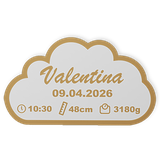
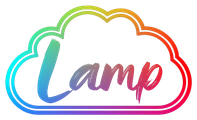
Release cloud-lamp v2.1.9
Use the rainbow cloud wordmark as the README hero, web-app header brand,
and PWA / home-screen icon (transparent trial — iOS may fill alpha black).

diff --git a/web/app.html b/web/app.html
@@ -84,9 +84,10 @@
 
     header{display:flex;align-items:center;justify-content:space-between;gap:10px;margin-bottom:14px}
     .brand{display:flex;align-items:center;gap:10px;min-width:0}
+    /* Wordmark logo (cloud + "Lamp") — landscape slot, transparent PNG. */
     .brand .cloud{
       position:relative;overflow:visible;
-      width:48px;height:48px;border-radius:0;flex:0 0 auto;
+      width:112px;height:56px;border-radius:0;flex:0 0 auto;
       display:flex;align-items:center;justify-content:center;
       background:transparent;border:none;
     }
@@ -94,6 +95,7 @@
     .brand .cloud img{
       position:absolute;inset:0;width:100%;height:100%;object-fit:contain;
     }
+    .brand .cloud:has(img) svg{display:none}
     .brand h1{margin:0;font-size:18px;letter-spacing:.2px;white-space:nowrap;overflow:hidden;text-overflow:ellipsis}
     .brand .sub{font-size:11px;color:var(--muted);margin-top:1px}
     .hdr-right{display:flex;align-items:center;gap:8px;flex:0 0 auto}

diff --git a/tools/mock-device.py b/tools/mock-device.py
@@ -56,13 +56,13 @@ def light_json(detail_all=False):
 
 def update_json():
     # Match ESPHome web_server shape: latest version is in `value`.
-    latest = "2.1.8"
+    latest = "2.1.9"
     installing = state["fw_installing"]
     return {
         "id": "update-firmware",
         "value": latest,
         "state": "INSTALLING" if installing else "NO UPDATE",
-        "current_version": "2.1.8",
+        "current_version": "2.1.9",
         "title": "Cloud Lamp (cloud-lamp)",
         "summary": f"Cloud-Lamp firmware {latest}",
         "has_progress": installing,
@@ -110,7 +110,7 @@ class Handler(http.server.BaseHTTPRequestHandler):
             self._send(200, json.dumps({
                 "name": "cloud-lamp-dd3f2a", "friendly_name": "Cloud-Lamp-dd3f2a",
                 "hostname": "cloud-lamp-dd3f2a", "serial": "DD3F2A",
-                "mac": "AA:BB:CC:DD:3F:2A", "version": "2.1.8",
+                "mac": "AA:BB:CC:DD:3F:2A", "version": "2.1.9",
             }).encode())
         elif path == "/manifest.json":
             self._send(200, json.dumps({"name": "Cloud-Lamp", "display": "standalone"}).encode())

diff --git a/components/cloud_lamp_web/cloud_lamp_web.cpp b/components/cloud_lamp_web/cloud_lamp_web.cpp
@@ -107,7 +107,7 @@ void CloudLampWeb::handle_manifest_(AsyncWebServerRequest *request) {
                          "\"display_override\":[\"standalone\",\"fullscreen\"],"
                          "\"background_color\":\"#0b0f18\",\"theme_color\":\"#0b0f18\"";
   if (this->icon_ != nullptr) {
-    manifest += ",\"icons\":[{\"src\":\"/icon.png\",\"sizes\":\"256x256\",\"type\":\"image/png\",\"purpose\":\"any\"}]";
+    manifest += ",\"icons\":[{\"src\":\"/icon.png\",\"sizes\":\"512x512\",\"type\":\"image/png\",\"purpose\":\"any\"}]";
   }
   manifest += "}";
   AsyncWebServerResponse *response = request->beginResponse(200, "application/manifest+json", manifest.c_str());

diff --git a/docs/cloud-lamp-design.md b/docs/cloud-lamp-design.md
@@ -17,20 +17,19 @@ Related documents:
 
 ## Project status
 
-> **Phase:** v2.1.8 — ten web-app languages (Italian, Dutch, Polish, Portuguese,
-> Turkish, Russian added; English now uses the US flag). v2.1.7: custom colour picker
-> (native OS colour picker in the web app's *Effect Presets* section; the picked colour
-> persists like an effect and survives power cuts). v2.1.6: true full-bleed iOS
-> background (no fixed theme-color; Safari samples the page gradient for its bars).
-> v2.1.5: colour-scale effect list (Red/Yellow/Green added, Indigo removed), grouped
-> effect grid (Colors / Special effects), vivid Aurora Drift, update-badge layout, user
-> manual (docs/user-manual.md) + header manual button.
+> **Phase:** v2.1.9 — project wordmark logo (rainbow cloud + "Lamp") as README hero,
+> web-app header brand and (transparently) the PWA / home-screen icon — iOS may still
+> fill transparent apple-touch-icon pixels black; check on a real device after Add to
+> Home Screen. v2.1.8: ten web-app languages (Italian, Dutch, Polish, Portuguese,
+> Turkish, Russian added; English now uses the US flag). v2.1.7: custom colour picker.
+> v2.1.6: true full-bleed iOS background. v2.1.5: colour-scale effect list, grouped
+> effect grid, user manual + header manual button.
 > **Still open:** per-effect user presets (store brightness + speed per effect, applied on
 > selection — feasible, deferred; see Web app section); intensity slider (per-effect
 > mapping); test button gestures / captive portal end-to-end; print + apply the product
 > sticker (P-Touch template exists: docs/Label.lbx, field checklist in
 > device-credentials.md); 3D print files.
-> **Firmware:** ESPHome 2026.6.0, project version 2.1.8
+> **Firmware:** ESPHome 2026.6.0, project version 2.1.9
 
 ---
 
@@ -72,10 +71,10 @@ cloud-lamp/
 │   └── cloud_lamp_web/           # Custom ESPHome component serving the web app
 ├── web/
 │   ├── app.html                  # Single-file iOS-style web app (gzipped into firmware)
-│   ├── icon.png                  # Home-screen / PWA icon (embedded, served at /icon.png)
-│   ├── brand.png                 # Transparent header cloud mark (embedded, /brand.png)
+│   ├── icon.png                  # Home-screen / PWA icon (wordmark, transparent)
+│   ├── brand.png                 # Header wordmark (transparent, /brand.png)
 │   └── logo.png                  # DD Productions logo (embedded, served at /logo.png)
-├── assets/                       # Original artwork sources (icon, brand, logo variants)
+├── assets/                       # Artwork sources (cloud-lamp-logo.png = project wordmark)
 ├── firmware-dist/                # Published releases (update channel, see firmware-updates.md)
 ├── tools/
 │   ├── release.sh                # Build + package a firmware release for the updater
@@ -163,12 +162,14 @@ A single-file iOS-style web app served by the lamp itself at `http://<lamp-ip>/`
   `/manifest.json` (PWA manifest, name = friendly name), `/icon.png` (home-screen / PWA
   icon), `/brand.png` (transparent cloud mark in the app header), `/logo.png` (DD
   Productions maker logo in the footer) and `/device.json` (name, serial, MAC, version).
-- **PWA icon (`/icon.png`):** kept square on purpose — iOS rounds home-screen icons
-  automatically, and `apple-touch-icon` does not support transparency (transparent
-  corners would render black). Used only for Add to Home Screen / manifest icons.
-- **Header brand (`/brand.png`):** transparent cloud artwork for the in-app header only;
-  sized larger than the previous tile and shown with `object-fit: contain` (no blue
-  background box).
+- **PWA icon (`/icon.png`):** the project wordmark on a square transparent canvas
+  (512×512). Used for Add to Home Screen / manifest icons. iOS may still fill
+  transparent `apple-touch-icon` pixels with black — check on a real device after each
+  artwork change; if it looks wrong, composite the wordmark onto the PWA
+  `background_color` (`#0b0f18`) instead.
+- **Header brand (`/brand.png`):** the same wordmark, cropped landscape, for the in-app
+  header only (`object-fit: contain`, no background box; not used as the home-screen
+  icon).
 - **PWA:** a top-of-page button *Create a remote control app* opens a structured sheet with
   step-by-step iOS home-screen instructions (including the lamp’s own unique
   `http://cloud-lamp-<serial>.local/` address — same six-hex serial as the header). The button is shown only when

diff --git a/README.md b/README.md
@@ -6,7 +6,7 @@ gift — for example with a child's name and birth details printed on the front 
 fully usable as a standalone lamp with a single push-button, with optional Wi-Fi control
 through a built-in web app.
 
-![Cloud-Lamp app icon](assets/cloud-lamp-icon.png)
+![Cloud-Lamp logo](assets/cloud-lamp-logo.png)
 
 ## Features
 
@@ -126,9 +126,10 @@ secrets.example.yaml       template for the required secrets.yaml
 packages/                  feature modules: web app, updates, MQTT, temperature sensor
 components/cloud_lamp_web/ custom ESPHome component serving the web app
 web/                       web app source (embedded into the firmware at build time)
-assets/                    artwork sources (PWA icon, header brand, logos)
-web/brand.png              transparent header mark (embedded as /brand.png)
-web/icon.png               home-screen / PWA icon (embedded as /icon.png)
+assets/                    artwork sources (project wordmark, PWA/header derivatives, logos)
+assets/cloud-lamp-logo.png project wordmark (README hero + source for web/brand + web/icon)
+web/brand.png              header wordmark (embedded as /brand.png)
+web/icon.png               home-screen / PWA icon (embedded as /icon.png; transparent trial)
 firmware-dist/             published firmware releases (online update channel)
 docs/                      project documentation
 docs/Label.lbx             P-Touch label template for the sticker on the back